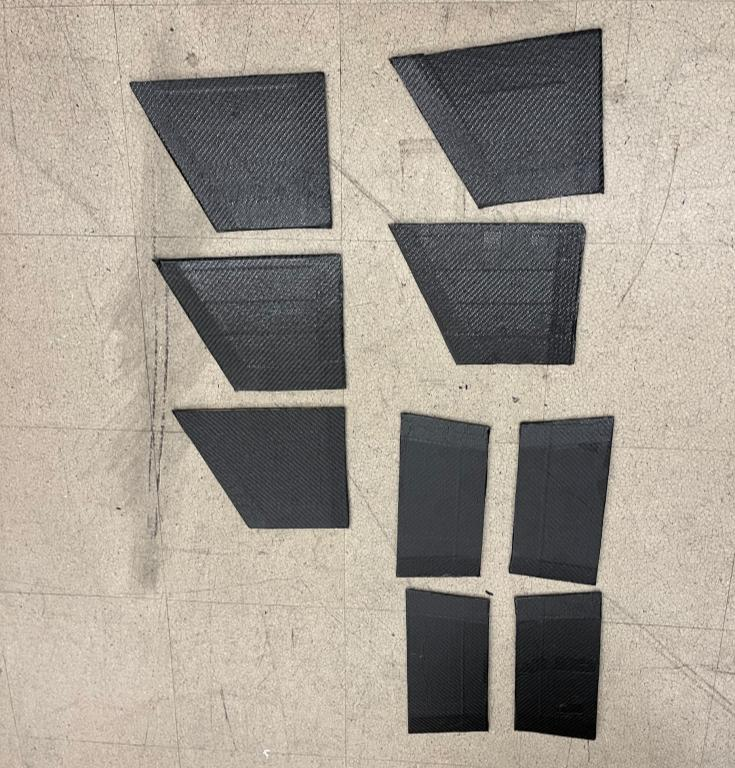
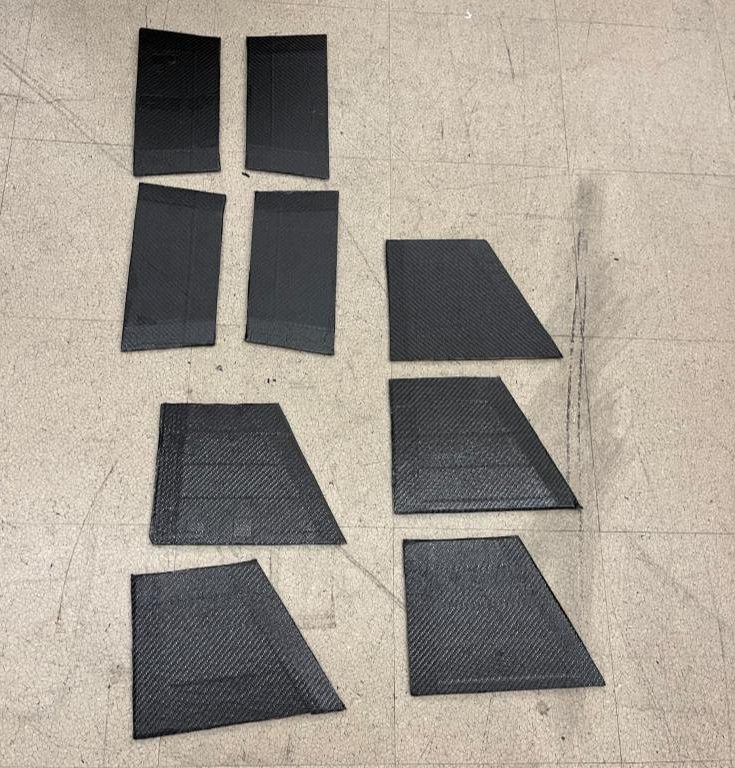
Update gallery captions; move CAD jig image to alignment section; rotate fins photo 180

diff --git a/index.html b/index.html
@@ -22,7 +22,7 @@
   <meta property="og:image:width" content="1075">
   <meta property="og:image:height" content="602">
   <meta property="og:image:type" content="image/jpeg">
-  <meta property="og:image:alt" content="Copper-tooled carbon-fiber rocket fin cans during assembly in the high bay">
+  <meta property="og:image:alt" content="Vacuum bagging a carbon-fiber rocket fin layup for oven cure">
   <meta property="og:site_name" content="Nathaniel Murcin">
 
   <!-- Twitter / X card -->
@@ -293,24 +293,20 @@
       </div>
       <div class="gallery">
         <figure class="gallery__item">
-          <img src="assets/v2_p3_1.jpeg" alt="Two copper-tooled fin cans during assembly with the carbon-fiber airframe in the high bay" width="1075" height="602" decoding="async" fetchpriority="high">
-          <figcaption>Fin cans during assembly in the high bay</figcaption>
+          <img src="assets/v2_p3_1.jpeg" alt="Vacuum bagging the carbon-fiber fin layup for oven cure" width="1075" height="602" decoding="async" fetchpriority="high">
+          <figcaption>Vacuum bagging after carbon fiber layup</figcaption>
         </figure>
         <figure class="gallery__item">
-          <img src="assets/v2_p3_0.jpeg" alt="Blue-core carbon-fiber fins bonded to the rocket airframe" width="680" height="774" loading="lazy" decoding="async">
-          <figcaption>Composite fins on the airframe</figcaption>
+          <img src="assets/v2_p3_0.jpeg" alt="Carbon-fiber fin can during tip-to-tip layup" width="680" height="774" loading="lazy" decoding="async">
+          <figcaption>Fin can during tip to tip layup</figcaption>
         </figure>
         <figure class="gallery__item">
-          <img src="assets/v2_p4_0.webp" alt="Machined aluminum molds for fin core thermoforming" width="793" height="660" loading="lazy" decoding="async">
+          <img src="assets/v2_p3_2.jpeg" alt="Machined aluminum molds for fin core thermoforming" width="973" height="520" loading="lazy" decoding="async">
           <figcaption>Machined molds for core thermoforming</figcaption>
         </figure>
         <figure class="gallery__item">
-          <img src="assets/v2_p3_2.jpeg" alt="Carbon-fiber plies cut and laid out for layup" width="973" height="520" loading="lazy" decoding="async">
-          <figcaption>Carbon-fiber plies cut for layup</figcaption>
-        </figure>
-        <figure class="gallery__item">
-          <img src="assets/v2_p3_3.jpeg" alt="Finished carbon-fiber fin showing the sharp leading edge" width="735" height="768" loading="lazy" decoding="async">
-          <figcaption>Finished fin, sharp leading edge</figcaption>
+          <img src="assets/v2_p3_3.jpeg" alt="Prepared carbon-fiber fins staged for final attachment" width="735" height="768" loading="lazy" decoding="async">
+          <figcaption>Prepared fins for final attachment</figcaption>
         </figure>
       </div>
     </article>
@@ -340,20 +336,24 @@
       </div>
       <div class="gallery">
         <figure class="gallery__item">
-          <img src="assets/v2_p4_1.webp" alt="CAD exploded view of the fin alignment jig assembly" width="800" height="1066" loading="lazy" decoding="async">
-          <figcaption>CAD exploded view of the jig</figcaption>
+          <img src="assets/v2_p4_0.webp" alt="Exploded 3D CAD view of the fin alignment jig assembly" width="793" height="660" loading="lazy" decoding="async">
+          <figcaption>Exploded 3D CAD view of alignment jig</figcaption>
+        </figure>
+        <figure class="gallery__item">
+          <img src="assets/v2_p4_1.webp" alt="Machined aluminum alignment jig parts" width="800" height="1066" loading="lazy" decoding="async">
+          <figcaption>Machined alignment jig parts</figcaption>
         </figure>
         <figure class="gallery__item">
           <img src="assets/v2_p5_1.jpeg" alt="Alignment jig clamped onto the rocket body setting the fin cant angle" width="764" height="839" loading="lazy" decoding="async">
           <figcaption>Jig setting fin cant on the airframe</figcaption>
         </figure>
         <figure class="gallery__item">
-          <img src="assets/v2_p5_2.jpeg" alt="Aluminum fin guide rail held next to a chop saw during fabrication" width="759" height="839" loading="lazy" decoding="async">
-          <figcaption>Machined guide rail in fabrication</figcaption>
+          <img src="assets/v2_p5_2.jpeg" alt="Alignment jig prepped for use" width="759" height="839" loading="lazy" decoding="async">
+          <figcaption>Alignment jig prepped for use</figcaption>
         </figure>
         <figure class="gallery__item">
-          <img src="assets/v2_p5_0.jpeg" alt="Adjustable alignment jig with multiple colored guide rails on the bench" width="564" height="713" loading="lazy" decoding="async">
-          <figcaption>Adjustable multi-rail jig</figcaption>
+          <img src="assets/v2_p5_0.jpeg" alt="Alignment jig in use setting fin cant" width="564" height="713" loading="lazy" decoding="async">
+          <figcaption>Alignment jig in use</figcaption>
         </figure>
       </div>
     </article>
